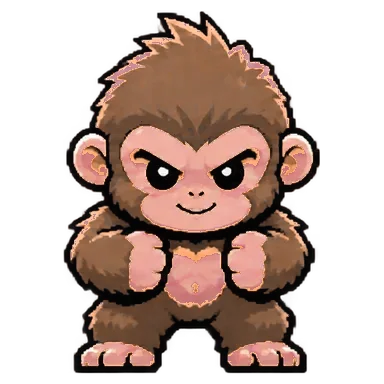
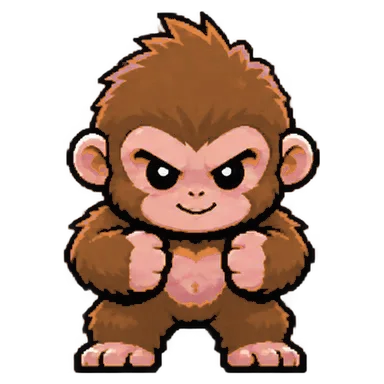
Rush: common colourways based on real morphs, shown in soldier label
Claude-Session: https://claude.ai/code/session_01BQSd4ftyBkNms49NmCfmYW

diff --git a/public/index.html b/public/index.html
@@ -735,22 +735,24 @@ function nickFor(s){const L=s.log||[];if(!L.length)return pick(['Ghost','Boots',
   if(late)return 'Photo Finish';if(avgM<=10)return 'Quickdraw';if(avgM>=45)return 'Marathon';if(avgSt>=3)return 'Checklist';if(early>=L.length*.6)return 'Early Bird';
   return {speedy:'Zoom',tough:'Iron',glutton:'Snacks',eager:'Keen'}[s.trait]||pick(['Ghost','Boots','Sparky','Ace','Tank'])}
 const dname=s=>s.nick?`${s.name} "${s.nick}"`:s.name;
-function ensure(s){if(!s.story)s.story=rollStory();if(!s.storySeen)s.storySeen=Math.min(rankOf(s.xp||0),1);if(s.hue){s.hue=0;s.coat='classic'}if(s.coat!=='galaxy'&&!coatsFor(s.sp).includes(s.coat))s.coat='classic';if(!s.pers)s.pers=pick(PERS);if(!s.tic)s.tic=pick(TICS);if(!s.call)s.call=pick(CALLS);if(!s.catch)s.catch=makeCatch();if(!s.log)s.log=[];if(s.nick===undefined)s.nick=null;if(!s.born)s.born=Date.now()}
+function ensure(s){if(OLDCOAT[s.coat])s.coat=OLDCOAT[s.coat];if(!s.story)s.story=rollStory();if(!s.storySeen)s.storySeen=Math.min(rankOf(s.xp||0),1);if(s.hue){s.hue=0;s.coat='classic'}if(s.coat!=='galaxy'&&!coatsFor(s.sp).includes(s.coat))s.coat='classic';if(!s.pers)s.pers=pick(PERS);if(!s.tic)s.tic=pick(TICS);if(!s.call)s.call=pick(CALLS);if(!s.catch)s.catch=makeCatch();if(!s.log)s.log=[];if(s.nick===undefined)s.nick=null;if(!s.born)s.born=Date.now()}
 
 
 const rankOf=xp=>{let r=1;XP_AT.forEach((v,i)=>{if(xp>=v)r=i+1});return r};
 const pct=xp=>{const r=rankOf(xp);return r>=5?100:Math.round((xp-XP_AT[r-1])/(XP_AT[r]-XP_AT[r-1])*100)};
 const SIZE=[70,79,87,94,100];
 /* coats: half of recruits get a common colourway; rare 1 in 20, legendary 1 in 60. Only the body is recoloured, pre-rendered in img/coats */
-const COMMON={gorilla:['ginger','jet','sandy'],kitsune:['redfox','sand','arctic'],giraffe:['midnight','chestnut','blonde'],shoebill:['slate','mocha','dusk'],octopus:['coral','amber','cobalt'],bee:['frost','lime','rose'],jorts:['acidwash','rawindigo','pinkdenim'],vase:['imperialred','celadon','saffron']};
+const COMMON={gorilla:['mountain','lowland','ginger'],kitsune:['red','silver','marble'],giraffe:['reticulated','masai','kordofan'],shoebill:['juvenile','storm','dusty'],octopus:['blueringed','mimic','common'],bee:['carpenter','orchid','leafcutter'],jorts:['acidwash','bleached','khaki'],vase:['celadon','imari','famillerose']};
+const OLDCOAT={jet:'mountain',sandy:'lowland',redfox:'red',sand:'marble',arctic:'silver',midnight:'masai',chestnut:'reticulated',blonde:'kordofan',slate:'storm',mocha:'juvenile',dusk:'dusty',coral:'common',amber:'mimic',cobalt:'blueringed',frost:'leafcutter',lime:'orchid',rose:'carpenter',rawindigo:'bleached',pinkdenim:'khaki',imperialred:'imari',saffron:'famillerose'};
 const SPCOATS={kitsune:['shadow'],giraffe:['albino'],shoebill:['snowy','raven'],gorilla:['silverback'],octopus:['crimson','deepsea'],bee:['hornet'],jorts:['blackdenim'],vase:[]};
-const COATNAME={ginger:'Ginger',jet:'Jet',sandy:'Sandy',redfox:'Red Fox',sand:'Sand',arctic:'Arctic',midnight:'Midnight',chestnut:'Chestnut',blonde:'Blonde',slate:'Slate',mocha:'Mocha',dusk:'Dusk',coral:'Coral',amber:'Amber',cobalt:'Cobalt',frost:'Frost',lime:'Lime',rose:'Rose',acidwash:'Acid Wash',rawindigo:'Raw Indigo',pinkdenim:'Pink Denim',imperialred:'Imperial Red',celadon:'Celadon',saffron:'Saffron',camo:'Camo',noir:'Noir',galaxy:'Galaxy',shadow:'Shadow',albino:'Albino',snowy:'Snowy',raven:'Raven',silverback:'Silverback',crimson:'Crimson',deepsea:'Deep Sea',hornet:'Hornet',blackdenim:'Black Denim'};
+const COATNAME={mountain:'Mountain',lowland:'Lowland',ginger:'Ginger',red:'Red',silver:'Silver',marble:'Marble',reticulated:'Reticulated',masai:'Masai',kordofan:'Kordofan',juvenile:'Juvenile',storm:'Storm',dusty:'Dusty',blueringed:'Blue-ringed',mimic:'Mimic',common:'Common',carpenter:'Carpenter',orchid:'Orchid',leafcutter:'Leafcutter',acidwash:'Acid Wash',bleached:'Bleached',khaki:'Khaki',celadon:'Celadon',imari:'Imari',famillerose:'Famille Rose',camo:'Camo',noir:'Noir',galaxy:'Galaxy',shadow:'Shadow',albino:'Albino',snowy:'Snowy',raven:'Raven',silverback:'Silverback',crimson:'Crimson',deepsea:'Deep Sea',hornet:'Hornet',blackdenim:'Black Denim'};
 const LEGEND=['galaxy'],RARE=['camo','noir',...new Set(Object.values(SPCOATS).flat())];
 const coatsFor=sp=>[...(COMMON[sp]||[]),'camo','noir',...(SPCOATS[sp]||[])],rareFor=sp=>['camo','noir',...(SPCOATS[sp]||[])];
 const coatTier=c=>LEGEND.includes(c)?'LEGENDARY':RARE.includes(c)?'RARE':'';
 const rollCoat=sp=>{const r=Math.random();return r<1/60?'galaxy':r<1/60+1/20?pick(rareFor(sp)):r<.55?pick(COMMON[sp]||['classic']):'classic'};
 const coatOf=s=>(s.coat==='galaxy'||coatsFor(s.sp).includes(s.coat))?s.coat:'classic';
 const coatLabel=c=>(COATNAME[c]||c).toUpperCase();
+const kindOf=s=>{const c=coatOf(s);return ((COMMON[s.sp]||[]).includes(c)?COATNAME[c]+' ':'')+SPECIES[s.sp]};
 const img=(s,o={})=>{const rk=o.rank||(o.fallen&&s.rank)||rankOf(s.xp||0),c=coatOf(s),src=o.fallen?`img/${s.sp}_fallen.webp`:c==='classic'?`img/${s.sp}_${rk}.webp`:`img/coats/${s.sp}_${rk}_${c}.webp`,sz=o.full?100:SIZE[rk-1]||100;
   const f=`style="width:${sz}%;height:${sz}%"`;
   return `<img class="spr${o.cls?' '+o.cls:''}" src="${src}" ${f} alt="${esc(o.alt||((s.name?s.name+', ':'')+SPECIES[s.sp]))}" draggable="false">`};
@@ -848,7 +850,7 @@ function drawSquad(){
   const sq=Math.random()<.18?squadLine(s):null;
   $('b-say').textContent=sq?sq:S.away?tic(s,`You were gone ${S.away} days, ${s.call}.`):(Math.random()<.5&&S.draft.task?fill(s,pick(TASKLINES[s.pers]||TASKLINES.stoic),S.draft.task):(memory(s,S.draft.task)||line(s,'greet')));S.away=0;startChat(s,'b-say');
   $('b-name').textContent=dname(s);
-  $('b-meta').textContent=(out?`MED BAY · back in ${hrs(s.medUntil-Date.now())}h · `:'')+`LV${r} ${RANKS[r-1]} · ${SPECIES[s.sp]} · ${TRAITS[s.trait].n} · ${cap1(s.pers)}`+(coatTier(c)?` · ★ ${coatLabel(c)}`:'');
+  $('b-meta').textContent=(out?`MED BAY · back in ${hrs(s.medUntil-Date.now())}h · `:'')+`LV${r} ${RANKS[r-1]} · ${kindOf(s)} · ${TRAITS[s.trait].n} · ${cap1(s.pers)}`+(coatTier(c)?` · ★ ${coatLabel(c)}`:'');
   $('b-xp').style.width=pct(s.xp)+'%';
   $('b-prev').style.visibility=$('b-next').style.visibility=n>1?'visible':'hidden';
   $('b-dots').innerHTML=n>1?S.roster.map(x=>`<i class="${x.id===s.id?'on':''}"></i>`).join(''):'';
@@ -1377,7 +1379,7 @@ if(S.dev)$('devtag').hidden=false;
 const RES={win:'WIN',late:'CLOSE CALL',excuse:'EXCUSE',tough:'PULLED THROUGH'};
 function drawFile(){const s=soldier(S.sel);if(!s){go('task');return}ensure(s);const r=rankOf(s.xp),L=s.log||[];
   $('f-pic').innerHTML=img(s);$('f-name').textContent=s.name;$('f-nick').textContent=s.nick?`"${s.nick}"`:'NICKNAME EARNED AT FIRST PROMOTION';
-  $('f-meta').textContent=`${RANKS[r-1]} ${SPECIES[s.sp]} · ${cap1(s.pers)} · ${TRAITS[s.trait].n}`+(coatTier(coatOf(s))?` · ${coatTier(coatOf(s))} ${coatLabel(coatOf(s))} COAT`:'');
+  $('f-meta').textContent=`${RANKS[r-1]} ${kindOf(s)} · ${cap1(s.pers)} · ${TRAITS[s.trait].n}`+(coatTier(coatOf(s))?` · ${coatTier(coatOf(s))} ${coatLabel(coatOf(s))} COAT`:'');
   $('f-catch').textContent=tic(s,s.catch);
   $('f-won').textContent=s.missions;$('f-days').textContent=daysWith(s);$('f-close').textContent=L.filter(e=>e.r!=='win').length;
   $('f-log').innerHTML=L.length?L.slice().reverse().map(e=>`<div class="rec"><b>${fmtDate(e.d).toUpperCase()} · <span class="w">${RES[e.r]||'WIN'}</span> · ${e.m} MIN</b><span>${esc(e.t)}</span>${e.why?`<span>&quot;${esc(e.why)}&quot;</span>`:''}</div>`).join(''):'<p class="sub">No missions yet.</p>'}
